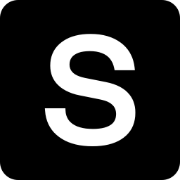
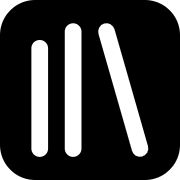
chore: Quote component

diff --git a/src/app/(app)/page.tsx b/src/app/(app)/page.tsx
@@ -1,26 +1,8 @@
-import { ShareButton } from '@/components/share-button';
 import { getRandomQuote } from '../actions/quotes';
-import { ShuffleButton } from '@/components/shuffle-button';
+import { Quote } from '@/components/quote';
 
 export default async function Home() {
-  const quote = await getRandomQuote();
+  const randomQuote = await getRandomQuote();
 
-  return (
-    <figure className='flex flex-1 flex-col justify-center gap-5 px-8 max-w-screen-lg mx-auto'>
-      <div className='relative before:absolute before:top-0 before:h-px before:w-[200vw] before:bg-gray-950/5 dark:before:bg-white/10 before:-left-[100vw] after:absolute after:bottom-0 after:h-px after:w-[200vw] after:bg-gray-950/5 dark:after:bg-white/10 after:-left-[100vw]'>
-        <h1 className='text-4xl text-balance sm:text-5xl lg:text-6xl'>
-          {quote.spark}
-        </h1>
-      </div>
-      <div className='relative before:absolute before:top-0 before:h-px before:w-[200vw] before:bg-gray-950/5 dark:before:bg-white/10 before:-left-[100vw] after:absolute after:bottom-0 after:h-px after:w-[200vw] after:bg-gray-950/5 dark:after:bg-white/10 after:-left-[100vw]'>
-        <p className='max-w-(--breakpoint-md) font-normal text-muted-foreground dark:text-gray-400'>
-          The source is not available.
-        </p>
-      </div>
-      <div className='mt-4 sm:mt-10 relative before:absolute before:top-0 before:h-px before:w-[200vw] before:bg-gray-950/5 dark:before:bg-white/10 before:-left-[100vw] after:absolute after:bottom-0 after:h-px after:w-[200vw] after:bg-gray-950/5 dark:after:bg-white/10 after:-left-[100vw] flex gap-3'>
-        <ShuffleButton />
-        <ShareButton />
-      </div>
-    </figure>
-  );
+  return <Quote quote={randomQuote} />;
 }

diff --git a/src/components/quote.tsx b/src/components/quote.tsx
@@ -1,0 +1,32 @@
+import { type Quote } from '@/types';
+import { ComponentProps } from 'react';
+import { ShuffleButton } from './shuffle-button';
+import { ShareButton } from './share-button';
+
+interface QuoteProps extends ComponentProps<'figure'> {
+  quote: Quote;
+}
+
+export function Quote({ quote, ...props }: QuoteProps) {
+  return (
+    <figure
+      className='flex flex-1 flex-col justify-center gap-5 px-8 max-w-screen-lg mx-auto'
+      {...props}
+    >
+      <div className='relative before:absolute before:top-0 before:h-px before:w-[200vw] before:bg-gray-950/5 dark:before:bg-white/10 before:-left-[100vw] after:absolute after:bottom-0 after:h-px after:w-[200vw] after:bg-gray-950/5 dark:after:bg-white/10 after:-left-[100vw]'>
+        <h1 className='text-4xl text-balance sm:text-5xl lg:text-6xl'>
+          {quote.spark}
+        </h1>
+      </div>
+      <div className='relative before:absolute before:top-0 before:h-px before:w-[200vw] before:bg-gray-950/5 dark:before:bg-white/10 before:-left-[100vw] after:absolute after:bottom-0 after:h-px after:w-[200vw] after:bg-gray-950/5 dark:after:bg-white/10 after:-left-[100vw]'>
+        <p className='max-w-(--breakpoint-md) font-normal text-muted-foreground dark:text-gray-400'>
+          The source is not available.
+        </p>
+      </div>
+      <div className='mt-4 sm:mt-10 relative before:absolute before:top-0 before:h-px before:w-[200vw] before:bg-gray-950/5 dark:before:bg-white/10 before:-left-[100vw] after:absolute after:bottom-0 after:h-px after:w-[200vw] after:bg-gray-950/5 dark:after:bg-white/10 after:-left-[100vw] flex gap-3'>
+        <ShuffleButton />
+        <ShareButton />
+      </div>
+    </figure>
+  );
+}

diff --git a/src/styles/globals.css b/src/styles/globals.css
@@ -113,20 +113,8 @@
   }
 }
 
-@utility border-grid {
-  @apply border-dashed border-border;
-}
-
-@utility container-wrapper {
-  @apply max-w-screen-xl mx-auto w-full px-6 min-xl:border-x border-border border-dashed;
-}
-
 @utility container {
   @apply max-w-screen-xl mx-auto px-4;
-}
-
-@utility container-background {
-  @apply row-span-full row-start-1 hidden border-x border-x-(--pattern-fg) bg-[image:repeating-linear-gradient(315deg,_var(--pattern-fg)_0,_var(--pattern-fg)_1px,_transparent_0,_transparent_50%)] bg-[size:10px_10px] bg-fixed [--pattern-fg:var(--color-black)]/5 md:col-start-3 md:block dark:[--pattern-fg:var(--color-white)]/10;
 }
 
 @utility no-scrollbar {

diff --git a/src/app/layout.tsx b/src/app/layout.tsx
@@ -29,7 +29,7 @@ export const metadata: Metadata = {
   ],
   creator: 'Ahmad Ghallab',
   icons: {
-    icon: '/favicon.ico',
+    icon: '/favicon.svg',
     shortcut: '/favicon-16x16.png',
     apple: '/apple-touch-icon.png',
   },

diff --git a/src/components/logo.tsx b/src/components/logo.tsx
@@ -8,7 +8,7 @@ export function Logo({ className, ...props }: React.ComponentProps<'h3'>) {
       {...props}
     >
       <Library className='size-5' />
-      Shelfsparks
+      ShelfSparks
     </h3>
   );
 }

diff --git a/src/types/index.d.ts b/src/types/index.d.ts
@@ -1,0 +1,11 @@
+export enum Language {
+  EN = 'en',
+  AR = 'ae',
+}
+
+export type Quote = {
+  id: number;
+  spark: string;
+  source?: string;
+  lang?: Language
+}
